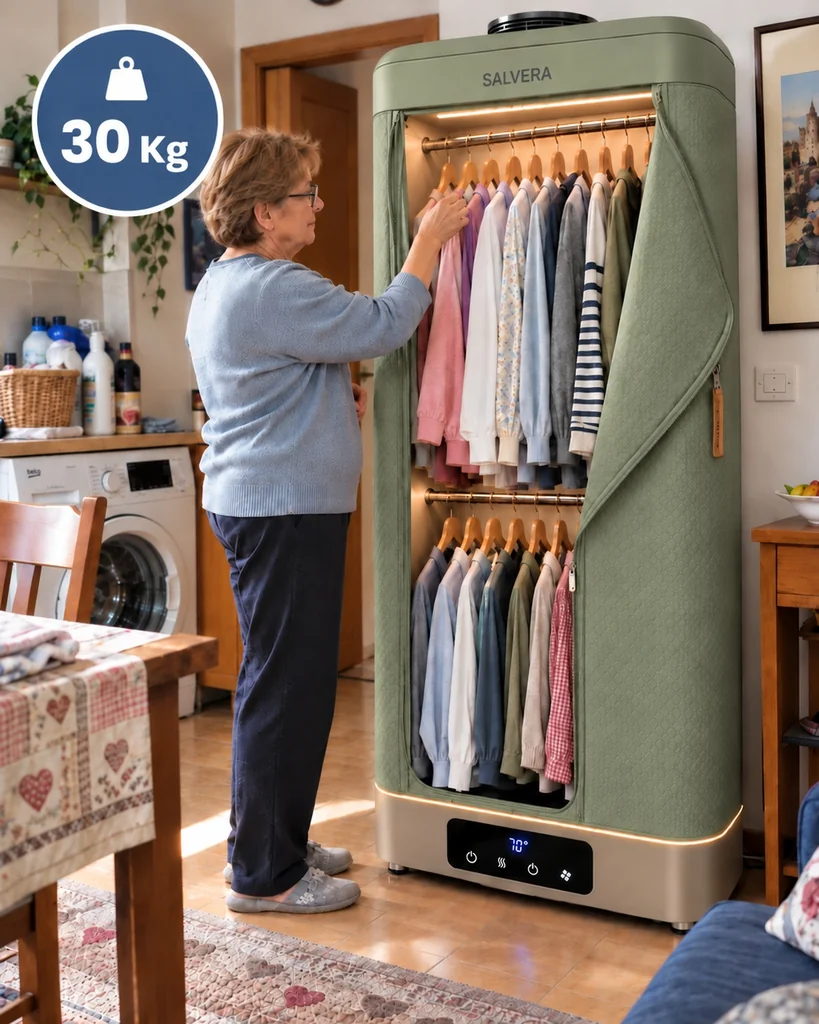
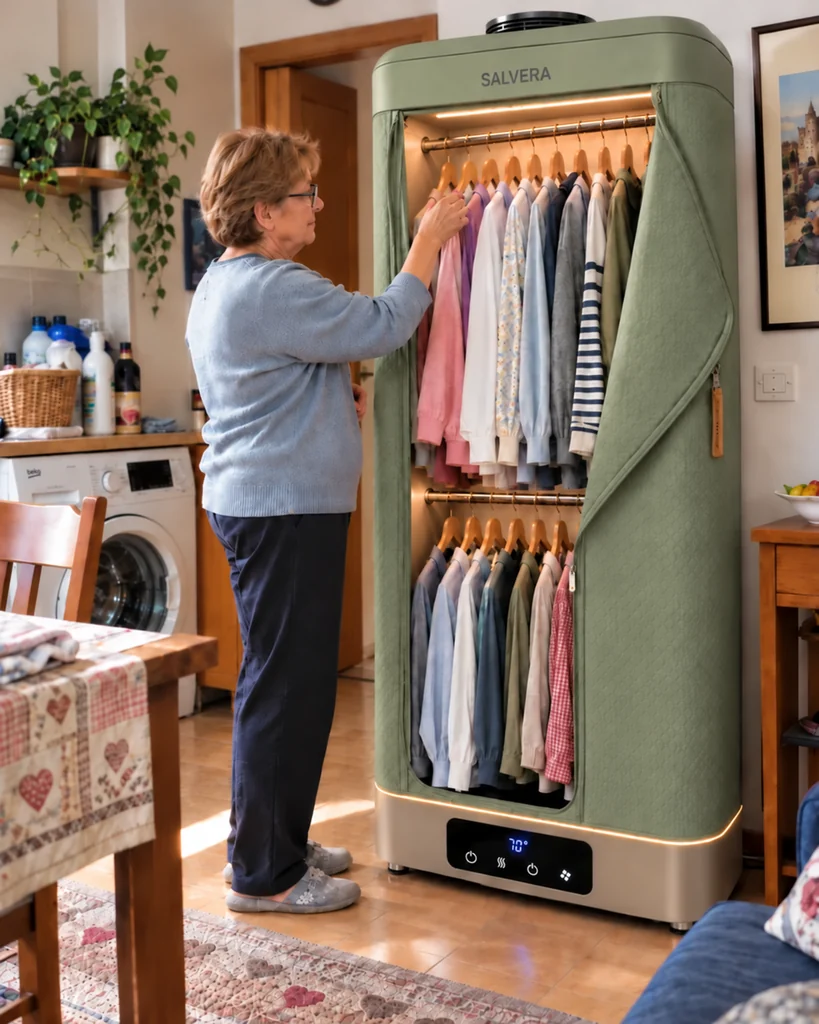
Hero asciugatrice IT: rimosso badge 30Kg dalle hero + bump ?v

diff --git a/it/salvera/landing.html b/it/salvera/landing.html
@@ -63,7 +63,7 @@
  "@context": "https://schema.org",
  "@type": "Product",
  "name": "SALVERA™",
- "image": "https://devicefindhub.com/assets/img/products/salvera/hero.webp?v=6957b803",
+ "image": "https://devicefindhub.com/assets/img/products/salvera/hero.webp?v=ca092a37",
  "description": "Asciuga, stira e igienizza il tuo bucato in soli 30 minuti. Dimentica le ore passate a stirare e goditi capi asciutti, stirati e subito pronti da indossare",
  "brand": {
   "@type": "Brand",
@@ -111,7 +111,7 @@ window.SITE_CONFIG = {
 </h1>
 <p class="trim-subtitle"><b>SALVERA</b> asciuga, stira e igienizza <b>fino a 30 kg di bucato in 30 minuti</b>, consumando solo 0,35 € di corrente per ogni ciclo.</p>
 <div class="trim-hero__image mobile-only">
-<img alt="SALVERA™ — ASCIUGATRICE PORTATILE 3 IN 1" decoding="async" fetchpriority="high" height="1000" src="/assets/img/products/salvera/hero.webp?v=6957b803" width="800"/>
+<img alt="SALVERA™ — ASCIUGATRICE PORTATILE 3 IN 1" decoding="async" fetchpriority="high" height="1000" src="/assets/img/products/salvera/hero.webp?v=ca092a37" width="800"/>
 </div>
 <div class="c4x-price-box">
 <div class="c4x-price-top">
@@ -187,7 +187,7 @@ window.SITE_CONFIG = {
 <a class="trim-cta" href="#FORM">COMPLETA ORDINE</a>
 </div>
 <div class="trim-hero__image desktop-only">
-<img alt="SALVERA™ — ASCIUGATRICE PORTATILE 3 IN 1" decoding="async" fetchpriority="high" height="1000" src="/assets/img/products/salvera/hero.webp?v=6957b803" width="800"/>
+<img alt="SALVERA™ — ASCIUGATRICE PORTATILE 3 IN 1" decoding="async" fetchpriority="high" height="1000" src="/assets/img/products/salvera/hero.webp?v=ca092a37" width="800"/>
 </div>
 </div>
 </section>

diff --git a/it/salvera/thank-you.html b/it/salvera/thank-you.html
@@ -101,7 +101,7 @@ window.SITE_CONFIG = {
 <h1 class="ty-headline">Il tuo ordine SALVERA™ è stato registrato!</h1>
 <p class="ty-subhead">Perfetto — il tuo ordine è in elaborazione. Manca solo <strong>un ultimo passaggio</strong> per completarlo e far partire la spedizione.</p>
 <div class="ty-product">
-<img alt="Kit completo SALVERA™" height="88" src="/assets/img/products/salvera/hero.webp?v=6957b803" width="88"/>
+<img alt="Kit completo SALVERA™" height="88" src="/assets/img/products/salvera/hero.webp?v=ca092a37" width="88"/>
 <div>
 <div class="ty-product__name">SALVERA™ — asciugatrice portatile 3 in 1</div>
 <div class="ty-product__meta">Kit completo · Pagamento alla consegna</div>
